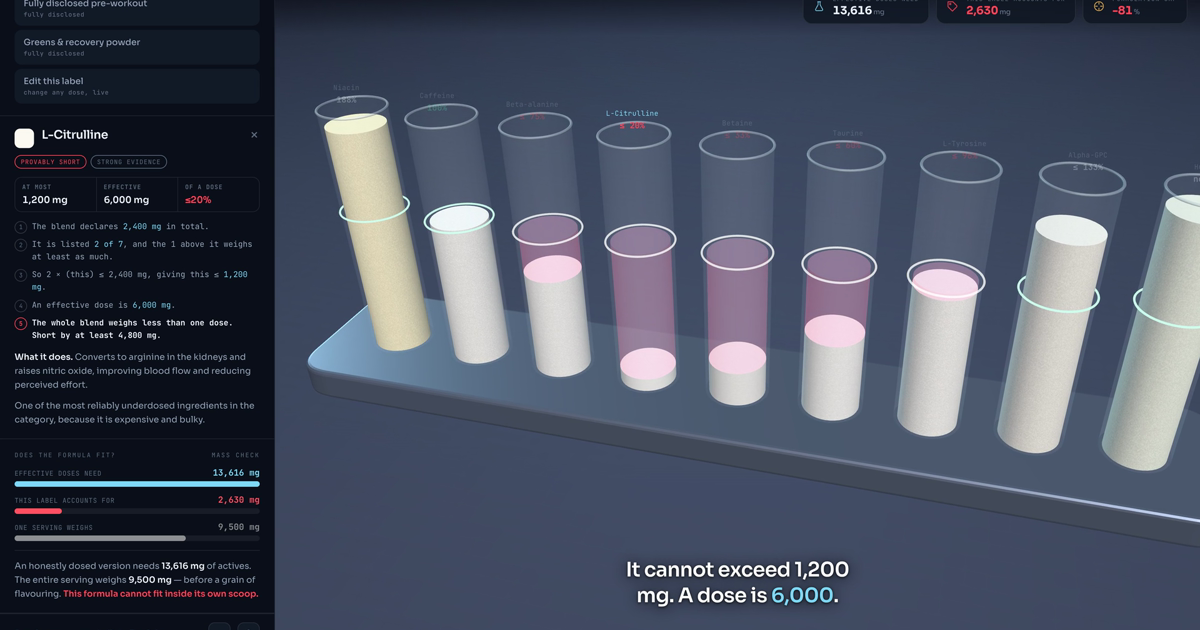
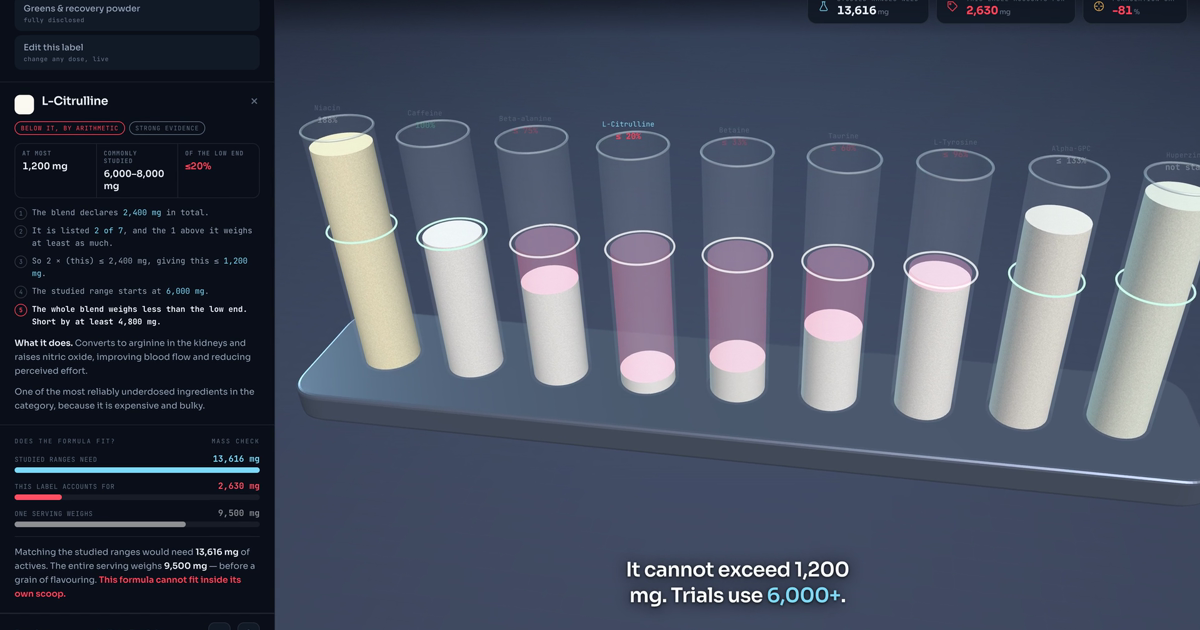
Refresh social preview and add the voiceover script

diff --git a/RECORDING.md b/RECORDING.md
@@ -52,3 +52,28 @@ not the chrome. Or OBS at 1920x1080, 60fps, for a sharper result.
   their own. Trim to 0:00–0:34 if you want it under 40s — that ends on
   "It does not fit inside its own scoop," which is the strongest stopping point.
 - **Still for the OG image** — pause at 0:12 or 0:36, crop to 1200x630.
+
+## Voiceover script
+
+Thirteen lines, each cued to a beat of the guided tour. Timings are seconds from the
+start of the 60-second take. Every line has at least 0.6s of headroom before the next
+cue, so a natural read will fit without rushing.
+
+| Cue | Line |
+| --- | --- |
+| 0:00.4 | A proprietary blend hides the dose of everything inside it. |
+| 0:04.6 | But the label still has to list them heaviest first. |
+| 0:08.6 | So the ceiling is just arithmetic. |
+| 0:12.4 | L citrulline is second in a twenty four hundred milligram blend. |
+| 0:16.4 | It cannot exceed twelve hundred. Trials use six thousand. |
+| 0:20.9 | Now weigh the whole formula. |
+| 0:24.9 | Together, the studied ranges need thirteen thousand milligrams. |
+| 0:29.9 | The scoop holds nine and a half. It does not fit. |
+| 0:34.4 | A greens powder. None of its nine reach their range. |
+| 0:39.4 | A fully disclosed label. Seven out of seven. |
+| 0:44.4 | Every dose stated. Every one of them in range. |
+| 0:48.9 | Put your own label in, and check it. |
+| 0:53.9 | Free, open source, and nothing leaves your browser. |
+
+Record it in one take against the silent 16:9 cut. If a line lands slightly late it
+still works — the captions on screen carry the meaning, the voice is reinforcement.
